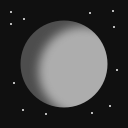
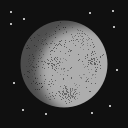
Official release at 1.0.0

diff --git a/CHANGELOG.md b/CHANGELOG.md
@@ -6,4 +6,12 @@ Check [Keep a Changelog](http://keepachangelog.com/) for recommendations on how 
 
 ## [Unreleased]
 
+## [0.0.1]
 - Initial release
+
+## [0.2.1]
+- Updated some of the grey shades
+- Added an icon for marketplace
+
+## [1.0.0]
+- Official release 🚀
